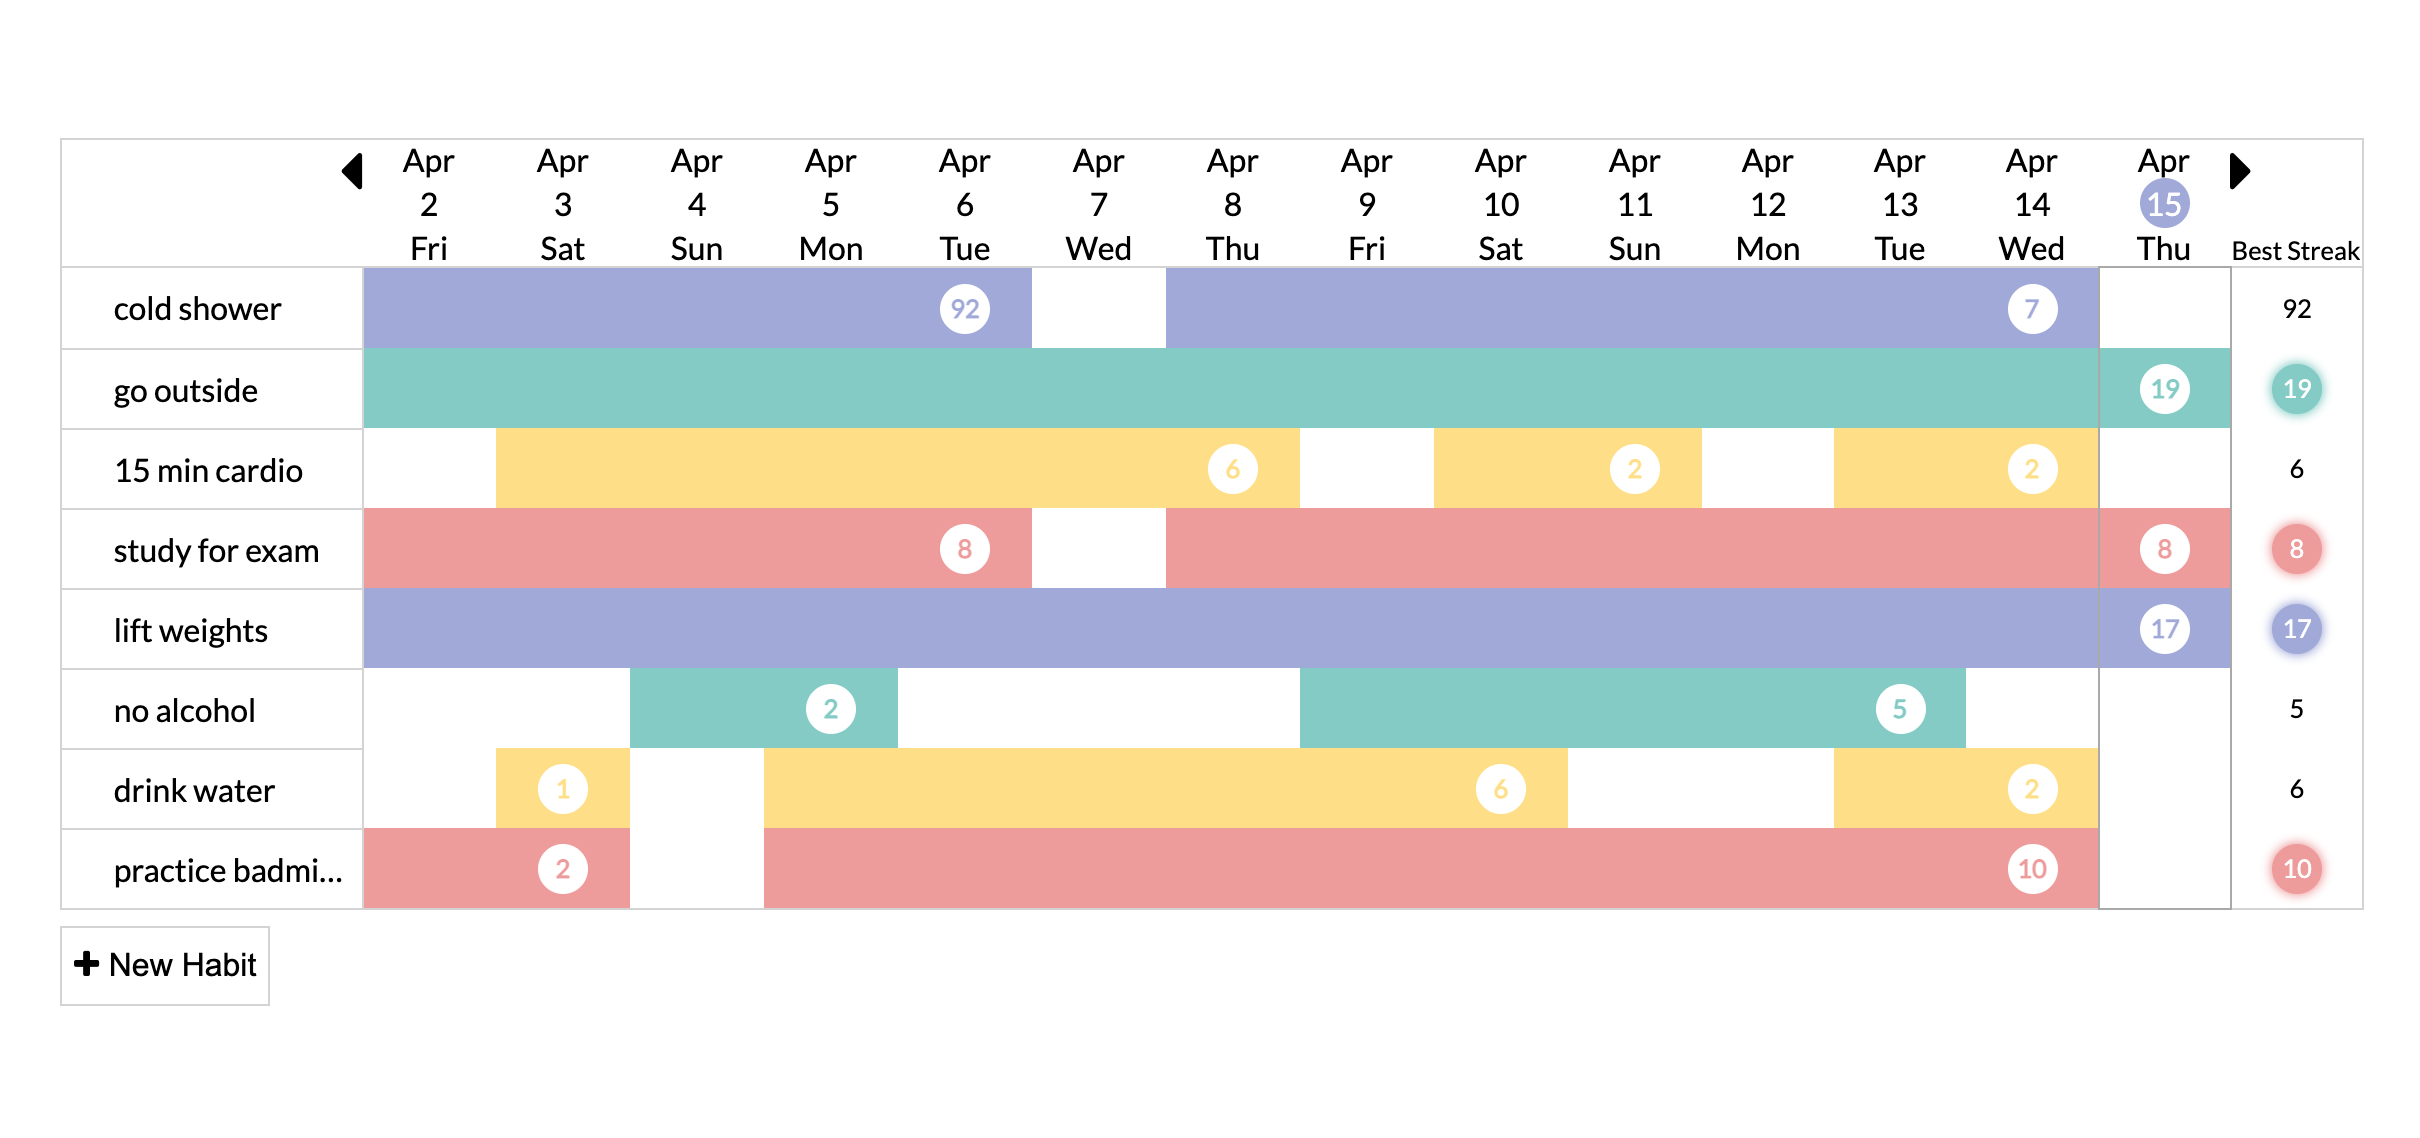
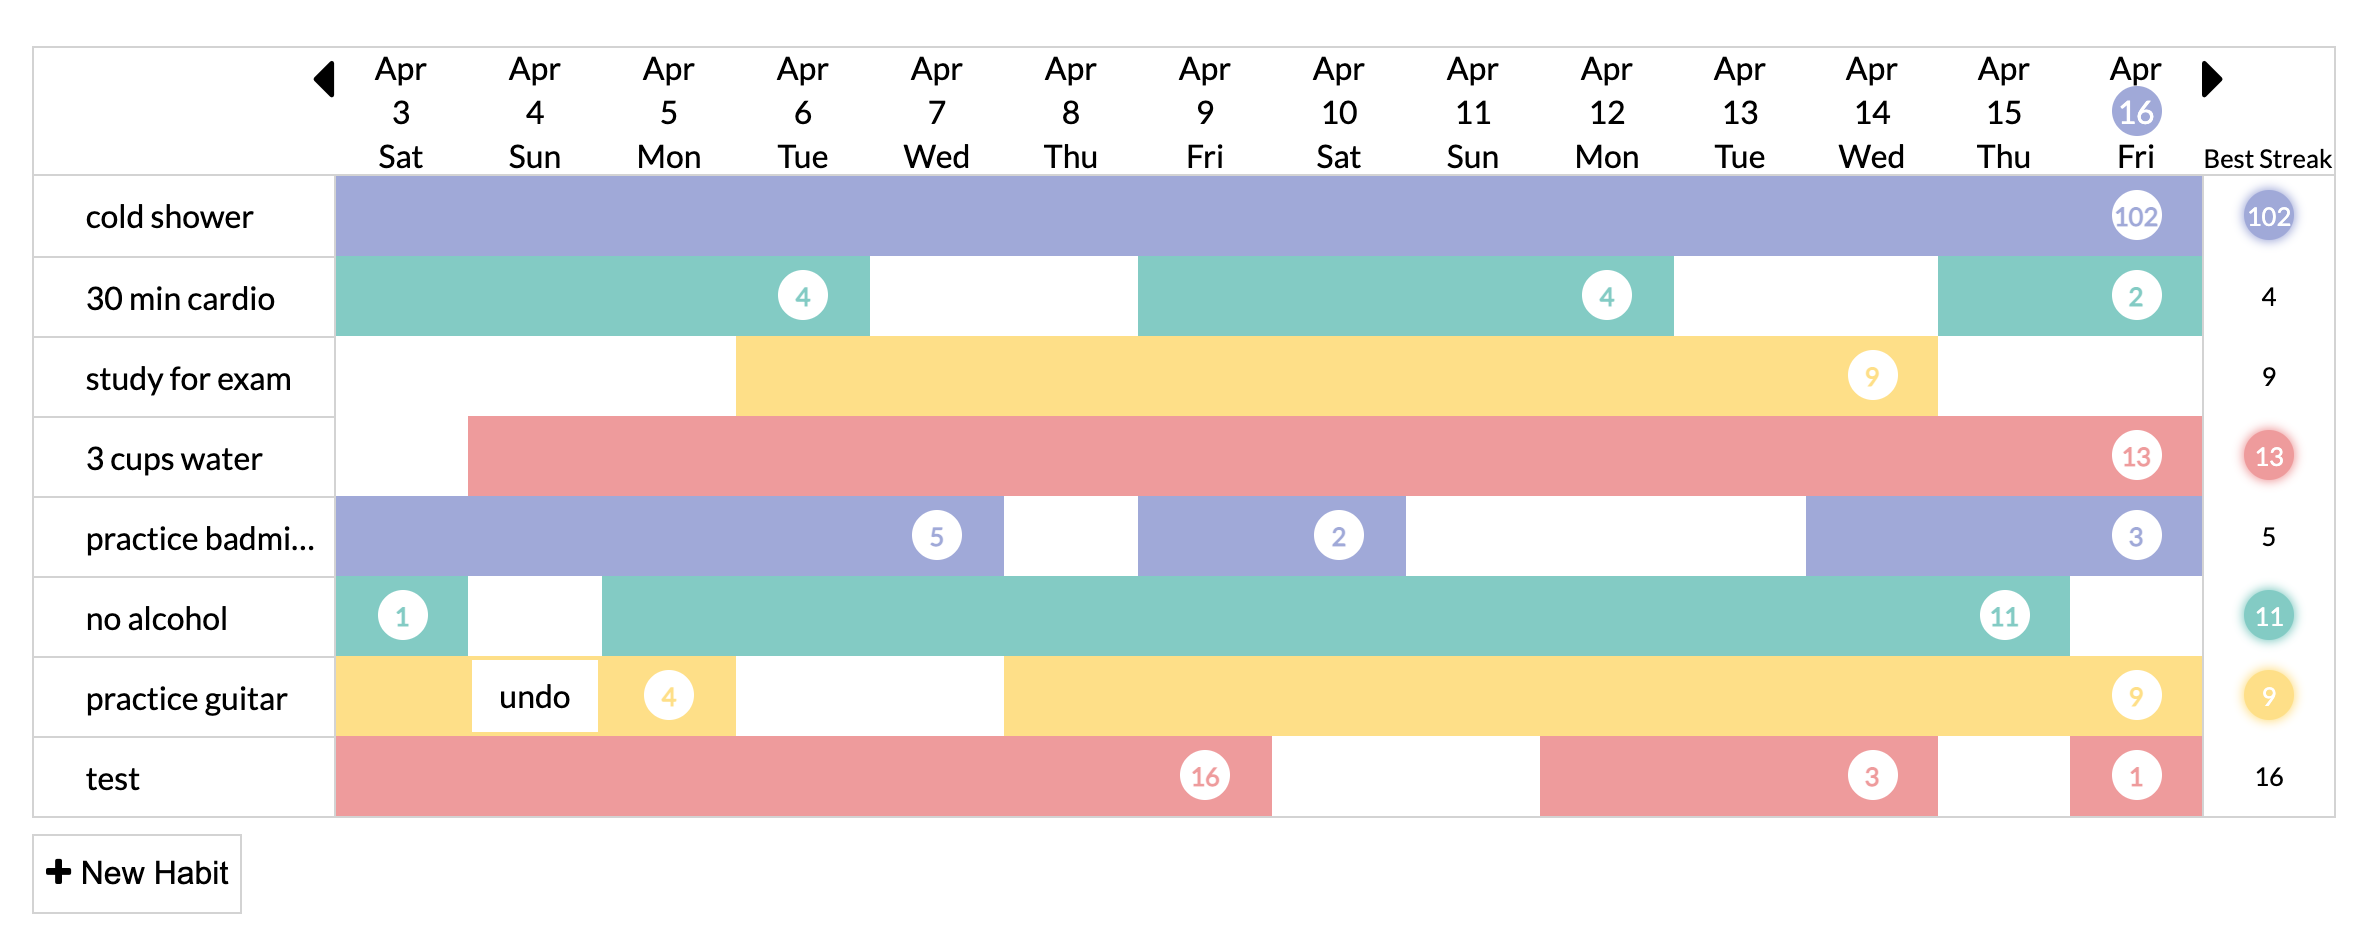
fix streak

diff --git a/client/src/main.scss b/client/src/main.scss
@@ -55,14 +55,24 @@ body {
     margin-top: 2rem;
     margin-bottom: 4rem;
     width: 100%;
-    height: 500px;
+    height: auto;
     border-radius: 5px;
     box-shadow: 0 0px 12px lightgrey;
+  }
+  #heroBtnWrapper {
+    margin-top: 3rem;
+    margin-bottom: 3rem;
+  }
+  #heroBtn {
+    @include button;
+    text-decoration: none;
+    padding: 0.8rem 2rem 0.8rem 2rem;
   }
 }
 
 .appBar {
   background-color: white;
+  margin-bottom: 4rem;
   a {
     text-decoration: none;
     color: black;
@@ -119,7 +129,7 @@ body {
   width: 400px;
   border: 1px solid #ccc;
   border-radius: 4px;
-  margin: 8rem auto 4rem auto;
+  margin: 4rem auto 4rem auto;
   padding: 2rem;
   box-shadow: 0 0 4px 3px #eee;
   #errorMsg:not(:empty) {
@@ -202,24 +212,10 @@ body {
 
 table {
   width: $tableWidth;
+  margin: 0 auto;
   table-layout: fixed;
-  margin: 4rem auto 0 auto;
   border-collapse: collapse;
   border: 1px solid lightgrey;
-  td:nth-last-child(2) {
-    border-right: 1px solid $today_column;
-    border-left: 1px solid $today_column;
-  }
-  tr:nth-child(2) td:nth-last-child(2) {
-    border-top: 1px solid $today_column;
-  }
-  tr:first-child td:nth-last-child(2) {
-    border: none !important;
-  }
-  tr:last-child td:nth-last-child(2) {
-    border-bottom: 1px solid $today_column;
-  }
-
   th {
     width: 90px;
     max-width: 90px;
@@ -284,6 +280,7 @@ table {
     justify-content: center;
     align-items: center;
     width: 100%;
+    border-left: 1px solid lightgrey;
     p {
       margin: 0;
     }
@@ -355,4 +352,13 @@ table {
   @include button;
   padding: 1rem 2rem 1rem 2rem;
   float: right;
+}
+
+#notes {
+  display: inline-block;
+  margin-left: 5%;
+  width: 15%;
+  button {
+    margin-left: auto;
+  }
 }

diff --git a/client/src/components/Habits.js b/client/src/components/Habits.js
@@ -47,28 +47,33 @@ const Habits = (props) => {
             borderRadius: "50%",
             fontSize: ".8rem",
             boxShadow:
-              currentStreak(habit.dates) === longestStreak(habit.dates)
+              currentStreak(habit.dates) === longestStreak(habit.dates) &&
+              currentStreak(habit.dates) !== 0
                 ? "0 0 5px 1px" +
                   colors.habitPalette[
                     props.habits.indexOf(habit) % colors.habitPalette.length
                   ]
                 : "",
             height:
-              currentStreak(habit.dates) === longestStreak(habit.dates)
+              currentStreak(habit.dates) === longestStreak(habit.dates) &&
+              currentStreak(habit.dates) !== 0
                 ? "25px"
                 : "",
             width:
-              currentStreak(habit.dates) === longestStreak(habit.dates)
+              currentStreak(habit.dates) === longestStreak(habit.dates) &&
+              currentStreak(habit.dates) !== 0
                 ? "25px"
                 : "",
             backgroundColor:
-              currentStreak(habit.dates) === longestStreak(habit.dates)
+              currentStreak(habit.dates) === longestStreak(habit.dates) &&
+              currentStreak(habit.dates) !== 0
                 ? colors.habitPalette[
                     props.habits.indexOf(habit) % colors.habitPalette.length
                   ]
                 : "white",
             color:
-              currentStreak(habit.dates) === longestStreak(habit.dates)
+              currentStreak(habit.dates) === longestStreak(habit.dates) &&
+              currentStreak(habit.dates) !== 0
                 ? "white"
                 : "black",
           }}

diff --git a/client/src/components/Table.js b/client/src/components/Table.js
@@ -4,6 +4,7 @@ import { dateArray } from "../utils/dateArray";
 import Dates from "./Dates";
 import Habits from "./Habits";
 import Modal from "./Modal";
+
 import SubscribeModal from "./SubscribeModal";
 
 const Table = (props) => {
@@ -15,7 +16,6 @@ const Table = (props) => {
   let [modalOpen, setModalOpen] = useState(false);
   let [modalEdit, setModalEdit] = useState(false);
   let [modalSubscribe, setModalSubscribe] = useState(false);
-
   let [habitID, setHabitID] = useState("");
   let [habitToEdit, setHabitToEdit] = useState("");
 
@@ -90,7 +90,7 @@ const Table = (props) => {
   };
 
   return (
-    <div>
+    <>
       <table>
         <tbody>
           <Dates
@@ -127,7 +127,7 @@ const Table = (props) => {
           <span>New Habit</span>
         </button>
       </div>
-    </div>
+    </>
   );
 };
 

diff --git a/client/src/components/Dashboard.js b/client/src/components/Dashboard.js
@@ -90,13 +90,15 @@ const Dashboard = (props) => {
   return (
     <>
       {habits.length > 0 ? (
-        <Table
-          habits={habits}
-          markHabit={handleMarkHabit}
-          addHabit={handleAddHabit}
-          editHabit={handleEditHabit}
-          deleteHabit={handleDeleteHabit}
-        />
+        <>
+          <Table
+            habits={habits}
+            markHabit={handleMarkHabit}
+            addHabit={handleAddHabit}
+            editHabit={handleEditHabit}
+            deleteHabit={handleDeleteHabit}
+          />
+        </>
       ) : (
         <div id="noHabitMsg">
           <h1>Oops! Looks like you aren't tracking any habits yet.</h1>

diff --git a/client/src/components/Landing.js b/client/src/components/Landing.js
@@ -1,4 +1,5 @@
 import React, { useEffect, useState } from "react";
+import { Link } from "react-router-dom";
 
 const Landing = () => {
   return (
@@ -9,8 +10,13 @@ const Landing = () => {
           <p>
             Keep track of your habits with a simple, clutter free experience.
           </p>
+          <div id="heroBtnWrapper">
+            <Link to="/signup" id="heroBtn">
+              Try Now
+            </Link>
+          </div>
         </div>
-        <img id="heroImage" src="../client/public/hero.png" />
+        <img id="heroImage" src="../client/public/hero.gif" />
       </div>
     </>
   );
